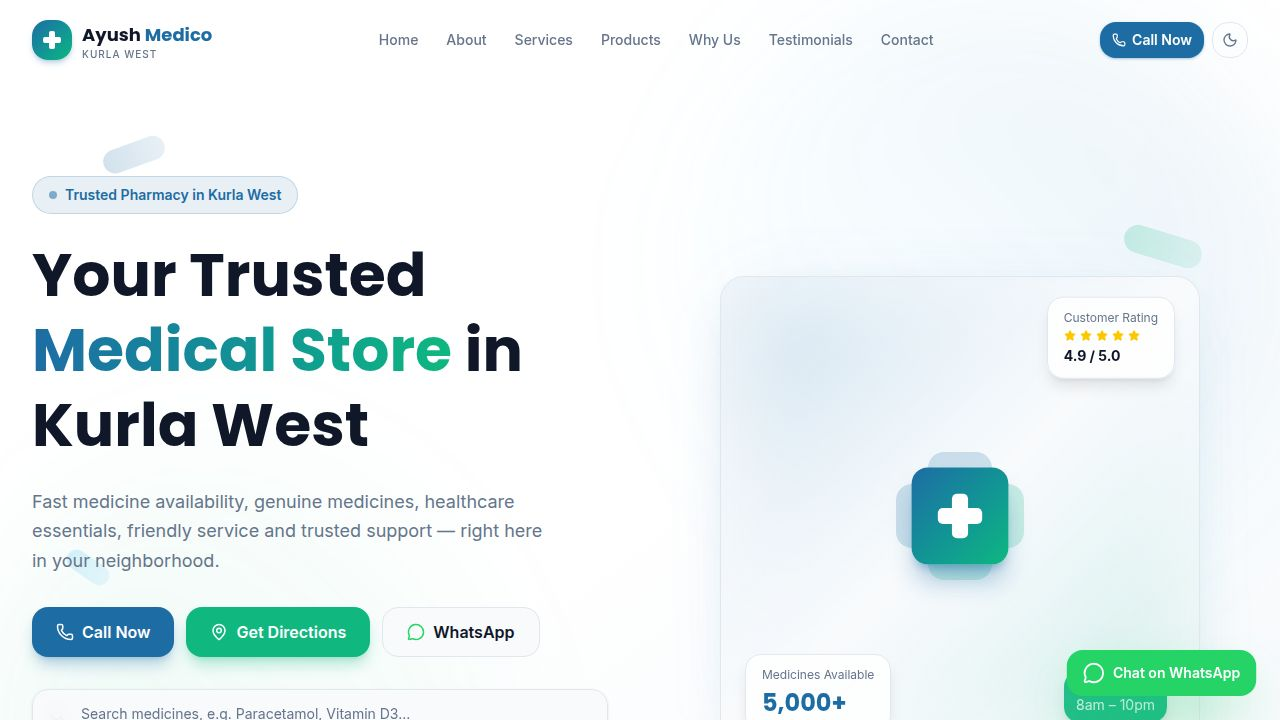
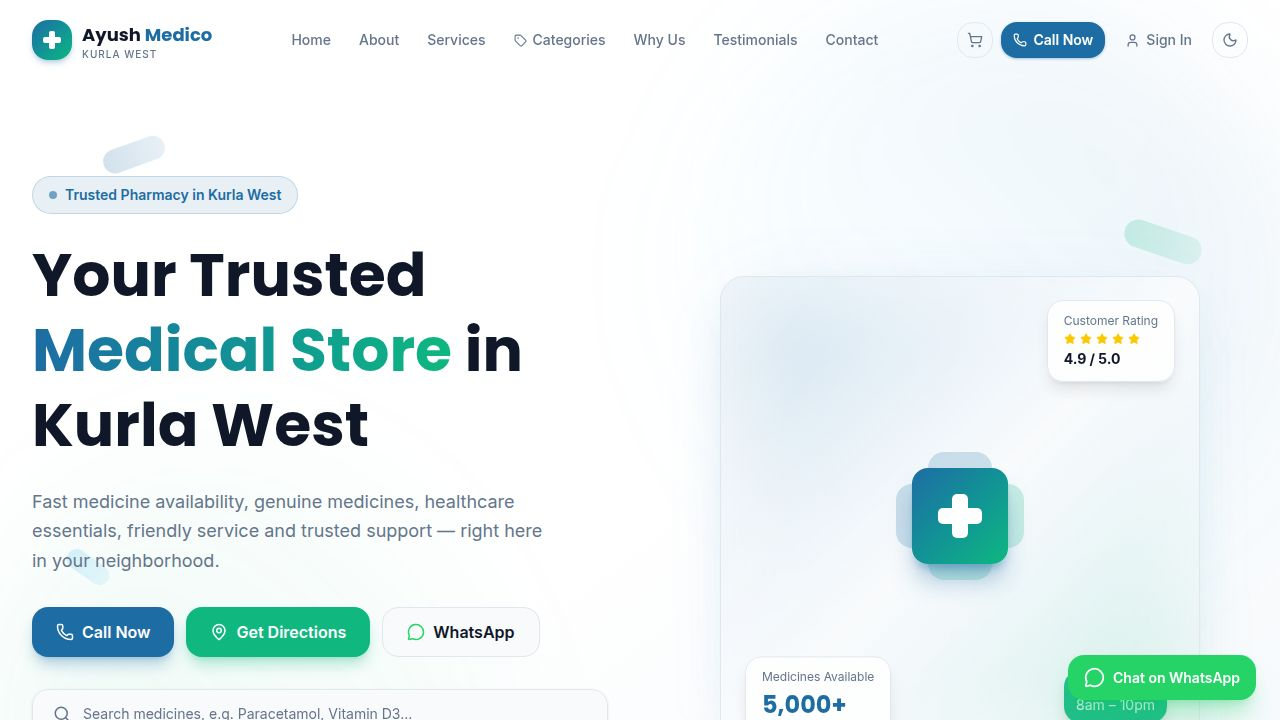
Improve product display and request functionality on the categories page
Update UI components and logic to introduce low stock status, enhance product sorting by stock priority, and improve the "Request this Medicine" feature with better pre-filling and cross-page navigation.

Replit-Commit-Author: Agent
Replit-Commit-Session-Id: 2d03b1e1-ce9b-4682-8e58-0ab9e170f6fa
Replit-Commit-Checkpoint-Type: full_checkpoint
Replit-Commit-Event-Id: 60020927-2a4e-4178-9130-b6260cb10a47
Replit-Commit-Screenshot-Url: https://storage.googleapis.com/screenshot-production-us-central1/1c69592c-7a9c-47e1-b57d-cafa79824fa2/2d03b1e1-ce9b-4682-8e58-0ab9e170f6fa/sMc6KGR
Replit-Helium-Checkpoint-Created: true

diff --git a/artifacts/ayush-medico/src/components/medicines/MedicineCard.tsx b/artifacts/ayush-medico/src/components/medicines/MedicineCard.tsx
@@ -18,15 +18,19 @@
 import { useState } from "react";
 import { Link } from "wouter";
 import { motion, AnimatePresence } from "framer-motion";
-import { PackageCheck, PackageX, Clock, ShoppingCart, Plus, Minus, Eye, Crown, Sparkles } from "lucide-react";
+import { ShoppingCart, Plus, Minus, Eye, Crown, Sparkles, PackageSearch, BellRing } from "lucide-react";
 import type { CategoryMedicine, StockStatus } from "@/hooks/useMedicinesByCategory";
 import { useCart } from "@/context/CartContext";
 import { resolveMedicineImage } from "@/lib/medicineImage";
+import { useRequestMedicine } from "@/context/RequestMedicineContext";
 
 /** Resolve max-stock from either Firestore field name convention. */
 function resolveMaxStock(item: CategoryMedicine): number | undefined {
   return item.stockQty ?? item.stockQuantity;
 }
+
+/** Units at or below this threshold are shown as "Low Stock" instead of "In Stock". */
+const LOW_STOCK_THRESHOLD = 10;
 
 export type { CategoryMedicine, StockStatus };
 
@@ -37,25 +41,48 @@ export type { CategoryMedicine, StockStatus };
 // which is acceptable).
 
 export function getStockStatus(item: CategoryMedicine): StockStatus {
-  if (item.stockStatus) return item.stockStatus;
-  return item.available === false ? "out_of_stock" : "in_stock";
+  const base: StockStatus = item.stockStatus
+    ? item.stockStatus
+    : item.available === false
+    ? "out_of_stock"
+    : "in_stock";
+
+  if (base === "in_stock") {
+    const qty = resolveMaxStock(item);
+    if (typeof qty === "number" && qty > 0 && qty <= LOW_STOCK_THRESHOLD) {
+      return "low_stock";
+    }
+  }
+  return base;
+}
+
+/** Ordering used to show in-stock products first — "customers should see
+ * what they can actually buy" before anything unavailable. */
+export function stockPriority(item: CategoryMedicine): number {
+  switch (getStockStatus(item)) {
+    case "in_stock":     return 0;
+    case "low_stock":    return 1;
+    case "coming_soon":  return 2;
+    case "out_of_stock": return 3;
+  }
 }
 
 // ─── StockBadge ───────────────────────────────────────────────────────────────
 
 export function StockBadge({ status }: { status: StockStatus }) {
   const map = {
-    in_stock:     { label: "In Stock",     icon: <PackageCheck size={9} />, cls: "bg-secondary/90 text-white" },
-    out_of_stock: { label: "Out of Stock", icon: <PackageX     size={9} />, cls: "bg-muted/90 text-muted-foreground" },
-    coming_soon:  { label: "Coming Soon",  icon: <Clock        size={9} />, cls: "bg-amber-500/90 text-white" },
+    in_stock:     { emoji: "🟢", label: "In Stock",     cls: "bg-secondary/90 text-white" },
+    low_stock:    { emoji: "🟡", label: "Low Stock",    cls: "bg-amber-500/90 text-white" },
+    out_of_stock: { emoji: "🔴", label: "Out of Stock", cls: "bg-muted/90 text-muted-foreground" },
+    coming_soon:  { emoji: "🟡", label: "Coming Soon",  cls: "bg-amber-500/90 text-white" },
   };
-  const { label, icon, cls } = map[status];
+  const { emoji, label, cls } = map[status];
   return (
     <span
       className={`inline-flex items-center gap-1 px-2 py-0.5 rounded-full
                   text-[10px] font-semibold backdrop-blur-sm ${cls}`}
     >
-      {icon} {label}
+      <span aria-hidden="true">{emoji}</span> {label}
     </span>
   );
 }
@@ -88,14 +115,21 @@ interface MedicineCardProps {
 export function MedicineCard({ item, index }: MedicineCardProps) {
   const [imgErr, setImgErr] = useState(false);
   const { addItem, items, updateQuantity, removeItem } = useCart();
+  const { triggerRequest } = useRequestMedicine();
   const status = getStockStatus(item);
+  const isUnavailable = status === "out_of_stock" || status === "coming_soon";
 
   const cartItem = items.find((i) => i.medicineId === item.id);
   const inCart = !!cartItem;
-  const canAdd = status === "in_stock" && !!item.sellingPrice;
+  const canAdd = (status === "in_stock" || status === "low_stock") && !!item.sellingPrice;
   const imageSrc = imgErr
     ? resolveMedicineImage(null, item.categoryName)
     : resolveMedicineImage(item.imageUrl, item.categoryName);
+
+  const handleRequestMedicine = (e: React.MouseEvent) => {
+    e.stopPropagation();
+    triggerRequest(item.name, item.brand, item.categoryName);
+  };
 
   const handleAddToCart = (e: React.MouseEvent) => {
     e.stopPropagation();
@@ -189,15 +223,19 @@ export function MedicineCard({ item, index }: MedicineCardProps) {
         >
           {item.name}
         </h3>
+        {item.packInfo && (
+          <p className="text-xs text-muted-foreground mt-0.5">{item.packInfo}</p>
+        )}
         {item.description && (
           <p className="text-xs text-muted-foreground line-clamp-2 leading-relaxed">
             {item.description}
           </p>
         )}
         {item.categoryName && (
-          <p className="text-[10px] text-muted-foreground/60 mt-1 truncate">
+          <span className="inline-block w-fit text-[10px] font-medium text-muted-foreground
+                            bg-muted/60 px-1.5 py-0.5 rounded-md mt-1.5 truncate max-w-full">
             {item.categoryName}
-          </p>
+          </span>
         )}
 
         {/* Price row */}
@@ -279,15 +317,25 @@ export function MedicineCard({ item, index }: MedicineCardProps) {
                 <ShoppingCart size={14} /> Add to Cart
               </motion.button>
             ) : (
-              /* Unavailable */
+              /* Unavailable — offer to request this medicine instead */
               <motion.div
                 key="unavail"
                 initial={{ opacity: 0 }}
                 animate={{ opacity: 1 }}
-                className="w-full flex items-center justify-center h-9 rounded-xl
-                           bg-muted/50 text-muted-foreground text-sm font-medium cursor-not-allowed"
+                className="flex flex-col gap-1.5"
               >
-                {status === "out_of_stock" ? "Out of Stock" : "Unavailable"}
+                <p className="text-[10px] text-muted-foreground leading-snug flex items-start gap-1">
+                  <BellRing size={11} className="mt-0.5 flex-shrink-0 text-amber-500" />
+                  Currently unavailable. We will notify you when it is available.
+                </p>
+                <button
+                  onClick={handleRequestMedicine}
+                  className="w-full flex items-center justify-center gap-2 h-9 rounded-xl
+                             text-sm font-semibold bg-secondary/10 text-secondary border border-secondary/30
+                             hover:bg-secondary hover:text-white active:scale-[0.98] transition-all duration-200"
+                >
+                  <PackageSearch size={14} /> Request this Medicine
+                </button>
               </motion.div>
             )}
           </AnimatePresence>

diff --git a/artifacts/ayush-medico/src/context/RequestMedicineContext.tsx b/artifacts/ayush-medico/src/context/RequestMedicineContext.tsx
@@ -1,28 +1,54 @@
 import { createContext, useContext, useState, useCallback } from "react";
+import { useLocation } from "wouter";
 
 type RequestMedicineContextValue = {
   prefillMedicine: string;
+  prefillBrand: string;
+  prefillCategory: string;
   requestToken: number;
-  triggerRequest: (medicineName?: string) => void;
+  /** Opens the Request Medicine form (navigating home if needed) and prefills it. */
+  triggerRequest: (medicineName?: string, brand?: string, category?: string) => void;
 };
 
 const RequestMedicineContext = createContext<RequestMedicineContextValue | undefined>(undefined);
 
 export function RequestMedicineProvider({ children }: { children: React.ReactNode }) {
+  const [, navigate] = useLocation();
   const [prefillMedicine, setPrefillMedicine] = useState("");
+  const [prefillBrand, setPrefillBrand] = useState("");
+  const [prefillCategory, setPrefillCategory] = useState("");
   const [requestToken, setRequestToken] = useState(0);
 
-  const triggerRequest = useCallback((medicineName = "") => {
-    setPrefillMedicine(medicineName);
-    setRequestToken((t) => t + 1);
-    requestAnimationFrame(() => {
-      const el = document.querySelector("#request-medicine");
-      if (el) el.scrollIntoView({ behavior: "smooth", block: "start" });
-    });
-  }, []);
+  const triggerRequest = useCallback(
+    (medicineName = "", brand = "", category = "") => {
+      setPrefillMedicine(medicineName);
+      setPrefillBrand(brand);
+      setPrefillCategory(category);
+      setRequestToken((t) => t + 1);
+      navigate("/");
+
+      // The request form only exists on the homepage. If we're navigating
+      // there from another route, its section won't be in the DOM yet —
+      // retry the scroll for a short window until it mounts.
+      let attempts = 0;
+      const tryScroll = () => {
+        const el = document.querySelector("#request-medicine");
+        if (el) {
+          el.scrollIntoView({ behavior: "smooth", block: "start" });
+        } else if (attempts < 20) {
+          attempts++;
+          setTimeout(tryScroll, 50);
+        }
+      };
+      requestAnimationFrame(tryScroll);
+    },
+    [navigate]
+  );
 
   return (
-    <RequestMedicineContext.Provider value={{ prefillMedicine, requestToken, triggerRequest }}>
+    <RequestMedicineContext.Provider
+      value={{ prefillMedicine, prefillBrand, prefillCategory, requestToken, triggerRequest }}
+    >
       {children}
     </RequestMedicineContext.Provider>
   );

diff --git a/artifacts/ayush-medico/src/pages/CategoriesPage.tsx b/artifacts/ayush-medico/src/pages/CategoriesPage.tsx
@@ -32,7 +32,7 @@ import { useMedicinesByCategory } from "@/hooks/useMedicinesByCategory";
 import { useAllMedicines }        from "@/hooks/useAllMedicines";
 import { useMedicineCounts }      from "@/hooks/useMedicineCounts";
 import { getCategoryColors }      from "@/lib/categoryColors";
-import { MedicineCard, MedicineSkeleton } from "@/components/medicines/MedicineCard";
+import { MedicineCard, MedicineSkeleton, stockPriority } from "@/components/medicines/MedicineCard";
 import type { CategoryMedicine }  from "@/hooks/useMedicinesByCategory";
 
 type SortOption = "default" | "name" | "price-low" | "price-high";
@@ -211,9 +211,15 @@ export default function CategoriesPage() {
       );
     }
     const sorted = [...list];
-    if (sort === "name")       sorted.sort((a, b) => a.name.localeCompare(b.name));
-    if (sort === "price-low")  sorted.sort((a, b) => (a.sellingPrice ?? Infinity) - (b.sellingPrice ?? Infinity));
-    if (sort === "price-high") sorted.sort((a, b) => (b.sellingPrice ?? -Infinity) - (a.sellingPrice ?? -Infinity));
+    sorted.sort((a, b) => {
+      const pa = stockPriority(a);
+      const pb = stockPriority(b);
+      if (pa !== pb) return pa - pb;
+      if (sort === "name")       return a.name.localeCompare(b.name);
+      if (sort === "price-low")  return (a.sellingPrice ?? Infinity) - (b.sellingPrice ?? Infinity);
+      if (sort === "price-high") return (b.sellingPrice ?? -Infinity) - (a.sellingPrice ?? -Infinity);
+      return (a.order ?? 0) - (b.order ?? 0);
+    });
     return sorted;
   }, [activeMedicines, search, sort]);
 

diff --git a/artifacts/ayush-medico/src/pages/CategoryDetailPage.tsx b/artifacts/ayush-medico/src/pages/CategoryDetailPage.tsx
@@ -24,7 +24,7 @@ import {
 import { useCategories }          from "@/hooks/useCategories";
 import { useMedicinesByCategory } from "@/hooks/useMedicinesByCategory";
 import { getCategoryColors }      from "@/lib/categoryColors";
-import { MedicineCard, MedicineSkeleton } from "@/components/medicines/MedicineCard";
+import { MedicineCard, MedicineSkeleton, stockPriority } from "@/components/medicines/MedicineCard";
 import {
   Breadcrumb, BreadcrumbList, BreadcrumbItem, BreadcrumbLink,
   BreadcrumbPage, BreadcrumbSeparator,
@@ -63,9 +63,15 @@ export default function CategoryDetailPage() {
       );
     }
     const sorted = [...list];
-    if (sort === "name")       sorted.sort((a, b) => a.name.localeCompare(b.name));
-    if (sort === "price-low")  sorted.sort((a, b) => (a.sellingPrice ?? Infinity) - (b.sellingPrice ?? Infinity));
-    if (sort === "price-high") sorted.sort((a, b) => (b.sellingPrice ?? -Infinity) - (a.sellingPrice ?? -Infinity));
+    sorted.sort((a, b) => {
+      const pa = stockPriority(a);
+      const pb = stockPriority(b);
+      if (pa !== pb) return pa - pb;
+      if (sort === "name")       return a.name.localeCompare(b.name);
+      if (sort === "price-low")  return (a.sellingPrice ?? Infinity) - (b.sellingPrice ?? Infinity);
+      if (sort === "price-high") return (b.sellingPrice ?? -Infinity) - (a.sellingPrice ?? -Infinity);
+      return (a.order ?? 0) - (b.order ?? 0);
+    });
     return sorted;
   }, [medicines, search, sort]);
 

diff --git a/artifacts/ayush-medico/src/components/RequestMedicine.tsx b/artifacts/ayush-medico/src/components/RequestMedicine.tsx
@@ -77,7 +77,7 @@ export default function RequestMedicine() {
   const ref = useRef(null);
   const inView = useInView(ref, { once: true, margin: "-100px" });
   const { toast } = useToast();
-  const { prefillMedicine, requestToken } = useRequestMedicine();
+  const { prefillMedicine, prefillBrand, prefillCategory, requestToken } = useRequestMedicine();
   const { user: customerUser, loading: customerLoading } = useCustomerAuth();
   const [prescriptionFile, setPrescriptionFile] = useState<File | null>(null);
   const [medicinePhotoFile, setMedicinePhotoFile] = useState<File | null>(null);
@@ -119,6 +119,14 @@ export default function RequestMedicine() {
   useEffect(() => {
     if (requestToken > 0 && prefillMedicine) {
       form.setValue("medicineName", prefillMedicine, { shouldValidate: false });
+      if (prefillBrand) form.setValue("medicineBrand", prefillBrand, { shouldValidate: false });
+      if (prefillCategory) {
+        form.setValue(
+          "notes",
+          `Category: ${prefillCategory}`,
+          { shouldValidate: false }
+        );
+      }
       form.setFocus("customerName");
     }
     // eslint-disable-next-line react-hooks/exhaustive-deps

diff --git a/artifacts/ayush-medico/src/hooks/useMedicinesByCategory.ts b/artifacts/ayush-medico/src/hooks/useMedicinesByCategory.ts
@@ -12,7 +12,7 @@
 import { useEffect, useState } from "react";
 import { subscribeToCollection, where } from "@/lib/firestoreHelpers";
 
-export type StockStatus = "in_stock" | "out_of_stock" | "coming_soon";
+export type StockStatus = "in_stock" | "low_stock" | "out_of_stock" | "coming_soon";
 
 export type CategoryMedicine = {
   id: string;
@@ -28,6 +28,8 @@ export type CategoryMedicine = {
   categoryName?: string;
   order?: number;
   prescriptionRequired?: boolean;
+  /** Strength / pack size, e.g. "500mg × 10" — written by MediVision sync */
+  packInfo?: string;
   /** Max units available (legacy field name used by manually-added medicines) */
   stockQuantity?: number;
   /** Max units available (written by MediVision inventory sync) */

diff --git a/.agents/memory/ayush-medico-request-medicine-trigger.md b/.agents/memory/ayush-medico-request-medicine-trigger.md
@@ -1,0 +1,15 @@
+---
+name: Ayush Medico Request Medicine cross-page trigger
+description: How triggering the Request Medicine form works from non-homepage routes
+---
+
+The `#request-medicine` section only renders inside `HomeSections` on the homepage (`App.tsx`). It does not exist on `/categories`, `/category/:slug`, or other routes.
+
+`RequestMedicineContext.triggerRequest(name, brand, category)` therefore:
+1. Sets prefill state (name/brand/category) and bumps a `requestToken` counter.
+2. Calls wouter's `navigate("/")` unconditionally.
+3. Retry-polls for the `#request-medicine` DOM node (up to ~20 attempts / 50ms) since the homepage may not have mounted yet, then scrolls to it.
+
+**Why:** A plain `scrollIntoView` call fails silently when invoked from a page where the anchor doesn't exist yet (e.g. clicking "Request this Medicine" on a Categories card) — there's no synchronous way to know when the homepage section has mounted after `navigate()`.
+
+**How to apply:** Any new UI that needs to open/prefill the Request Medicine form from outside the homepage should go through `useRequestMedicine().triggerRequest(...)`, not attempt to manage scrolling/prefill itself.

diff --git a/.agents/memory/MEMORY.md b/.agents/memory/MEMORY.md
@@ -9,3 +9,4 @@
 - [MedicineCard cart wiring](medicine-card-cart-wiring.md) — MedicineCard was missing Add to Cart entirely; fixed by adding useCart() inline with qty stepper; prescriptionRequired and stockQuantity added to CategoryMedicine type.
 - [Ayush Medico placeholder image system](ayush-medico-placeholder-images.md) — shared inline-SVG fallback via resolveMedicineImage(), now picked per-category; imageUrl/flags only seeded on Firestore doc creation, never on update.
 - [Ayush Medico Firestore write-quota-safe sync](ayush-medico-firestore-quota-sync.md) — batched/throttled/retried writes with deterministic doc IDs (sdf-<id>) to avoid RESOURCE_EXHAUSTED and duplicates at 50k+ scale; no BulkWriter (client SDK only).
+- [Ayush Medico Request Medicine cross-page trigger](ayush-medico-request-medicine-trigger.md) — the request form only lives on the homepage anchor; triggering it from other routes needs navigate-then-retry-scroll, not a plain scrollIntoView.